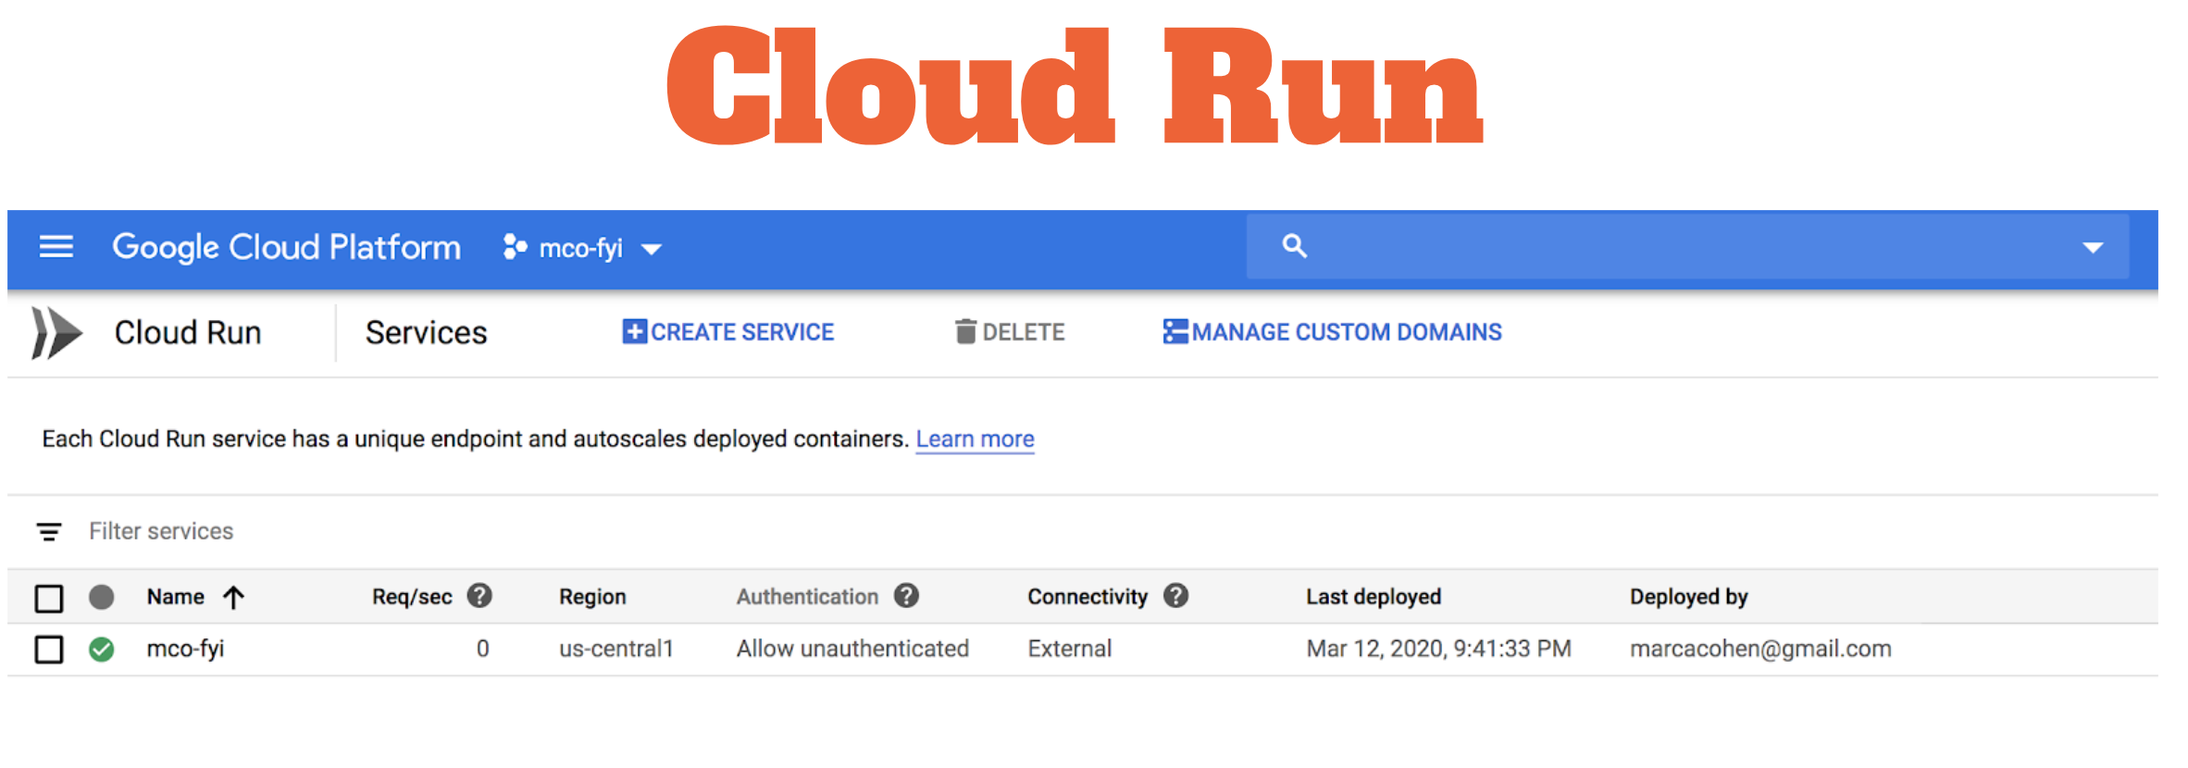
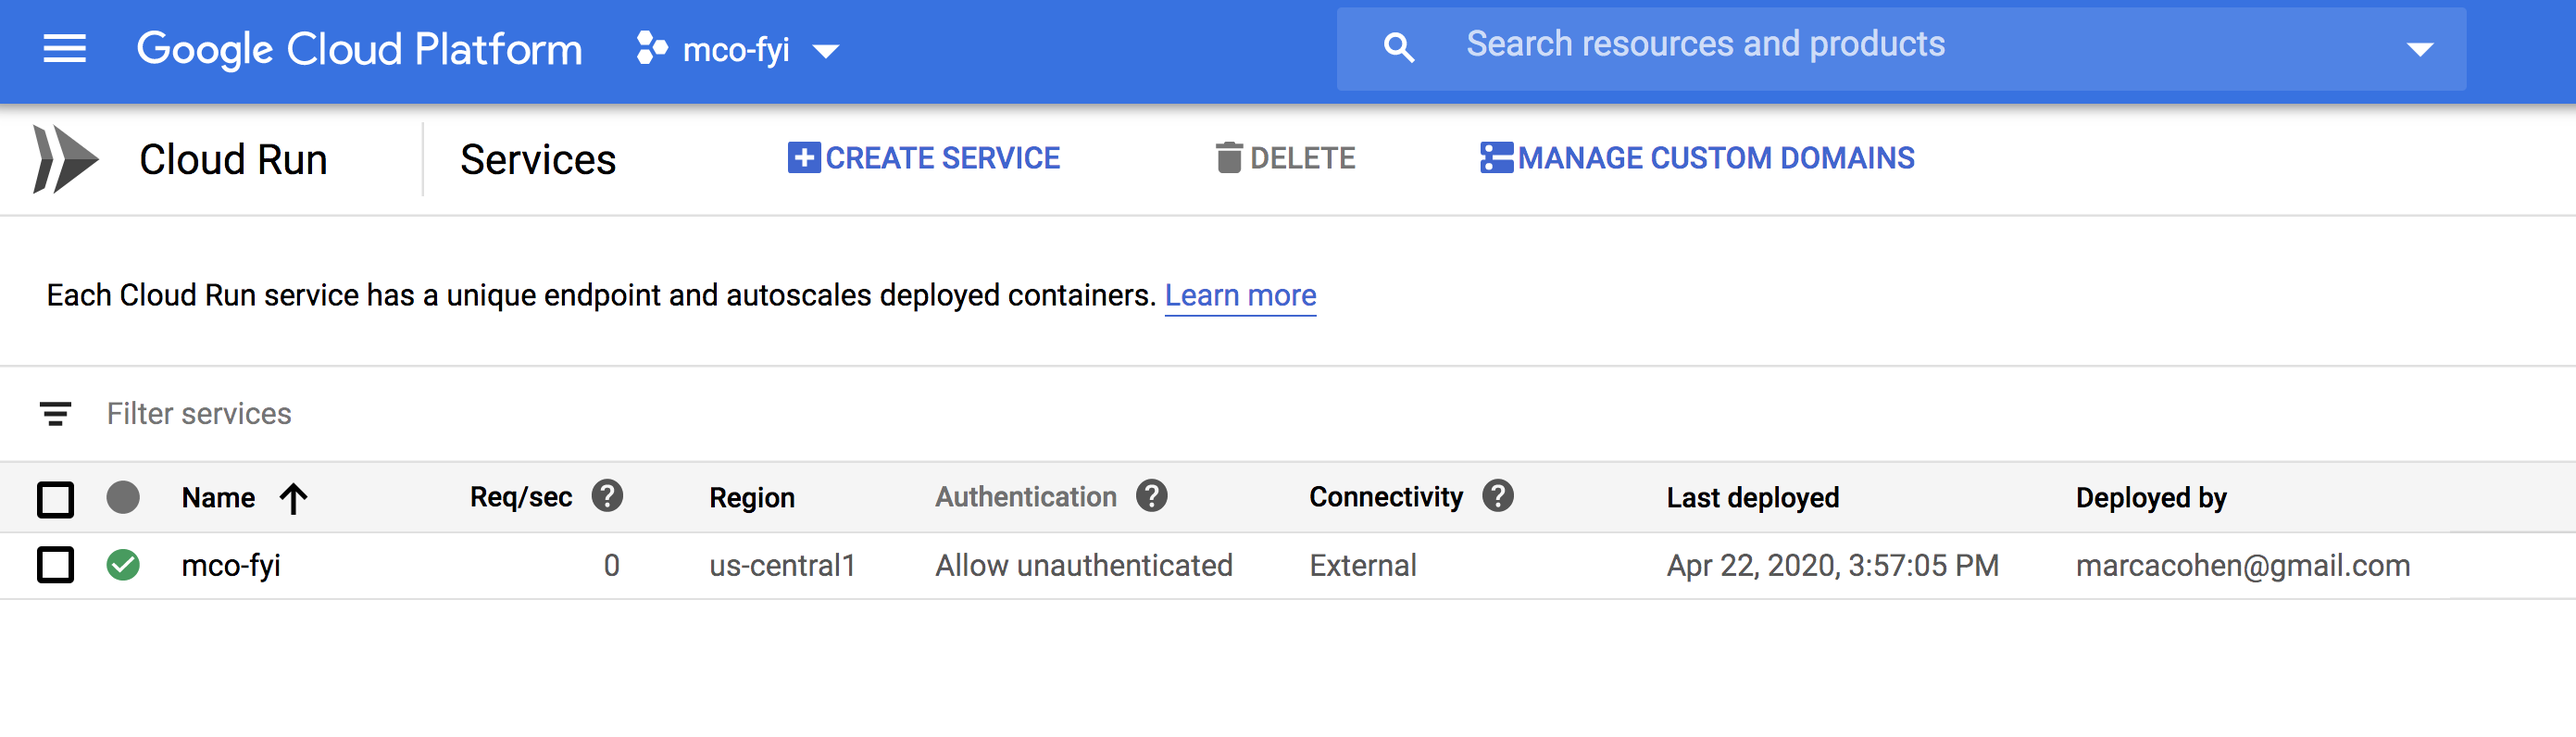
add updates to mco.fyi article

diff --git a/content/post/data/shortlink.md b/content/post/data/shortlink.md
@@ -2,9 +2,10 @@
 categories = ["Data"]
 tags = ["cloud", "dataviz"]
 title = "Build Your Own bit.ly"
+subtitle = "with Cloud Run, Firestore, and Svelte"
 date = "2020-04-28"
 coverImage = "/img/shortlink.jpg"
-draft = true
+#draft = true
 +++
 
 In this article we'll build a simple but powerful short link service
@@ -63,7 +64,7 @@ Of course, you can use this page to view your data but what I really like is you
 
 <img src="/img/svelte.png" width="400" height="400" style="display:block; margin:auto">
 
-For my web programing, there are so many choices...Of course, React is the 600 pound gorilla, and Vue is the choice of hipsters everywhere, and of course my own company's Angular JS is always a strong contender. But I chose none of those frontrunners - I went with Svelte. Why? Because I'm in love and there's not enough love in this world. To be slightly more technical, Svelte is a compiler so it generate small, tight code that accomplishes much of the logic those other frameworks implement in large bundles you need to ship with your app. But even more than that, I find I just get Svelte, or maybe it gets me. I feel like the way to do everything I want is natural and simple, which makes it fun to use. At the end of the day, that's probably the best reason of all: it make me happy. :) Anyway, if you'd like to see why I'm so smitten, I highly recommend the Svelte getting started tutorial, which is nicely done.
+For my web programming, there are so many choices...Of course, React is the 600 pound gorilla, and Vue is the choice of hipsters everywhere, and of course my own company's Angular JS is always a strong contender. But I chose none of those frontrunners - I went with Svelte. Why? Because I'm in love and there's not enough love in this world. To be slightly more technical, Svelte is a compiler so it generate small, tight code that accomplishes much of the logic those other frameworks implement in large bundles you need to ship with your app. But even more than that, I find I just get Svelte, or maybe it gets me. I feel like the way to do everything I want is natural and simple, which makes it fun to use. At the end of the day, that's probably the best reason of all: it make me happy. :) Anyway, if you'd like to see why I'm so smitten, I highly recommend the Svelte getting started tutorial, which is nicely done.
 
 Now you might be wondering, why is Marc going on about a web user interface? Doesn't this app, just redirect short links to long links? Last time I checked, that's a server side app. But I'd like to have a small UI so that you anyone can stop by and see my catalog of links, along with some rudimentary analytics. Here's what I want that page to look like:
 
@@ -100,7 +101,7 @@ Here's my Dockerfile:
 
 Here's what the Cloud Run console looks like after deploying my service:
 
-<img src="/img/cloud-run.png" width="400" height="400" style="display:block; margin:auto">
+<img src="/img/cloud-run.png" width="400" height="200" style="display:block; margin:auto">
 
 I'm going to further
 
@@ -120,4 +121,4 @@ Here's the final version of my site in all it's glory:
 
 <img src="/img/mco.fyi.png" width="400" height="400" style="display:block; margin:auto">
 
-In case you're wondering, that cute guy is Meiko. Whenever you visit a short link at mco.fyi/something, his job is to go fetch the long version and return it to your browser. Thanks to Google and Meiko, my short link service is SIMPLE _and_ useful. If you'd like to try this code for yourself, it's all available in on Github. Also, here's the slide version of this story.
+In case you're wondering, that cute guy is Meiko. Whenever you visit a short link at mco.fyi/something, his job is to go fetch the long version and return it to your browser. Thanks to Google and Meiko, my short link service is SIMPLE _and_ useful. If you'd like to try this code for yourself, it's all available in on [Github](https://github.com/marcacohen/mco.fyi). Also, here's the [slide version](https://mco.fyi/links) of this story.
